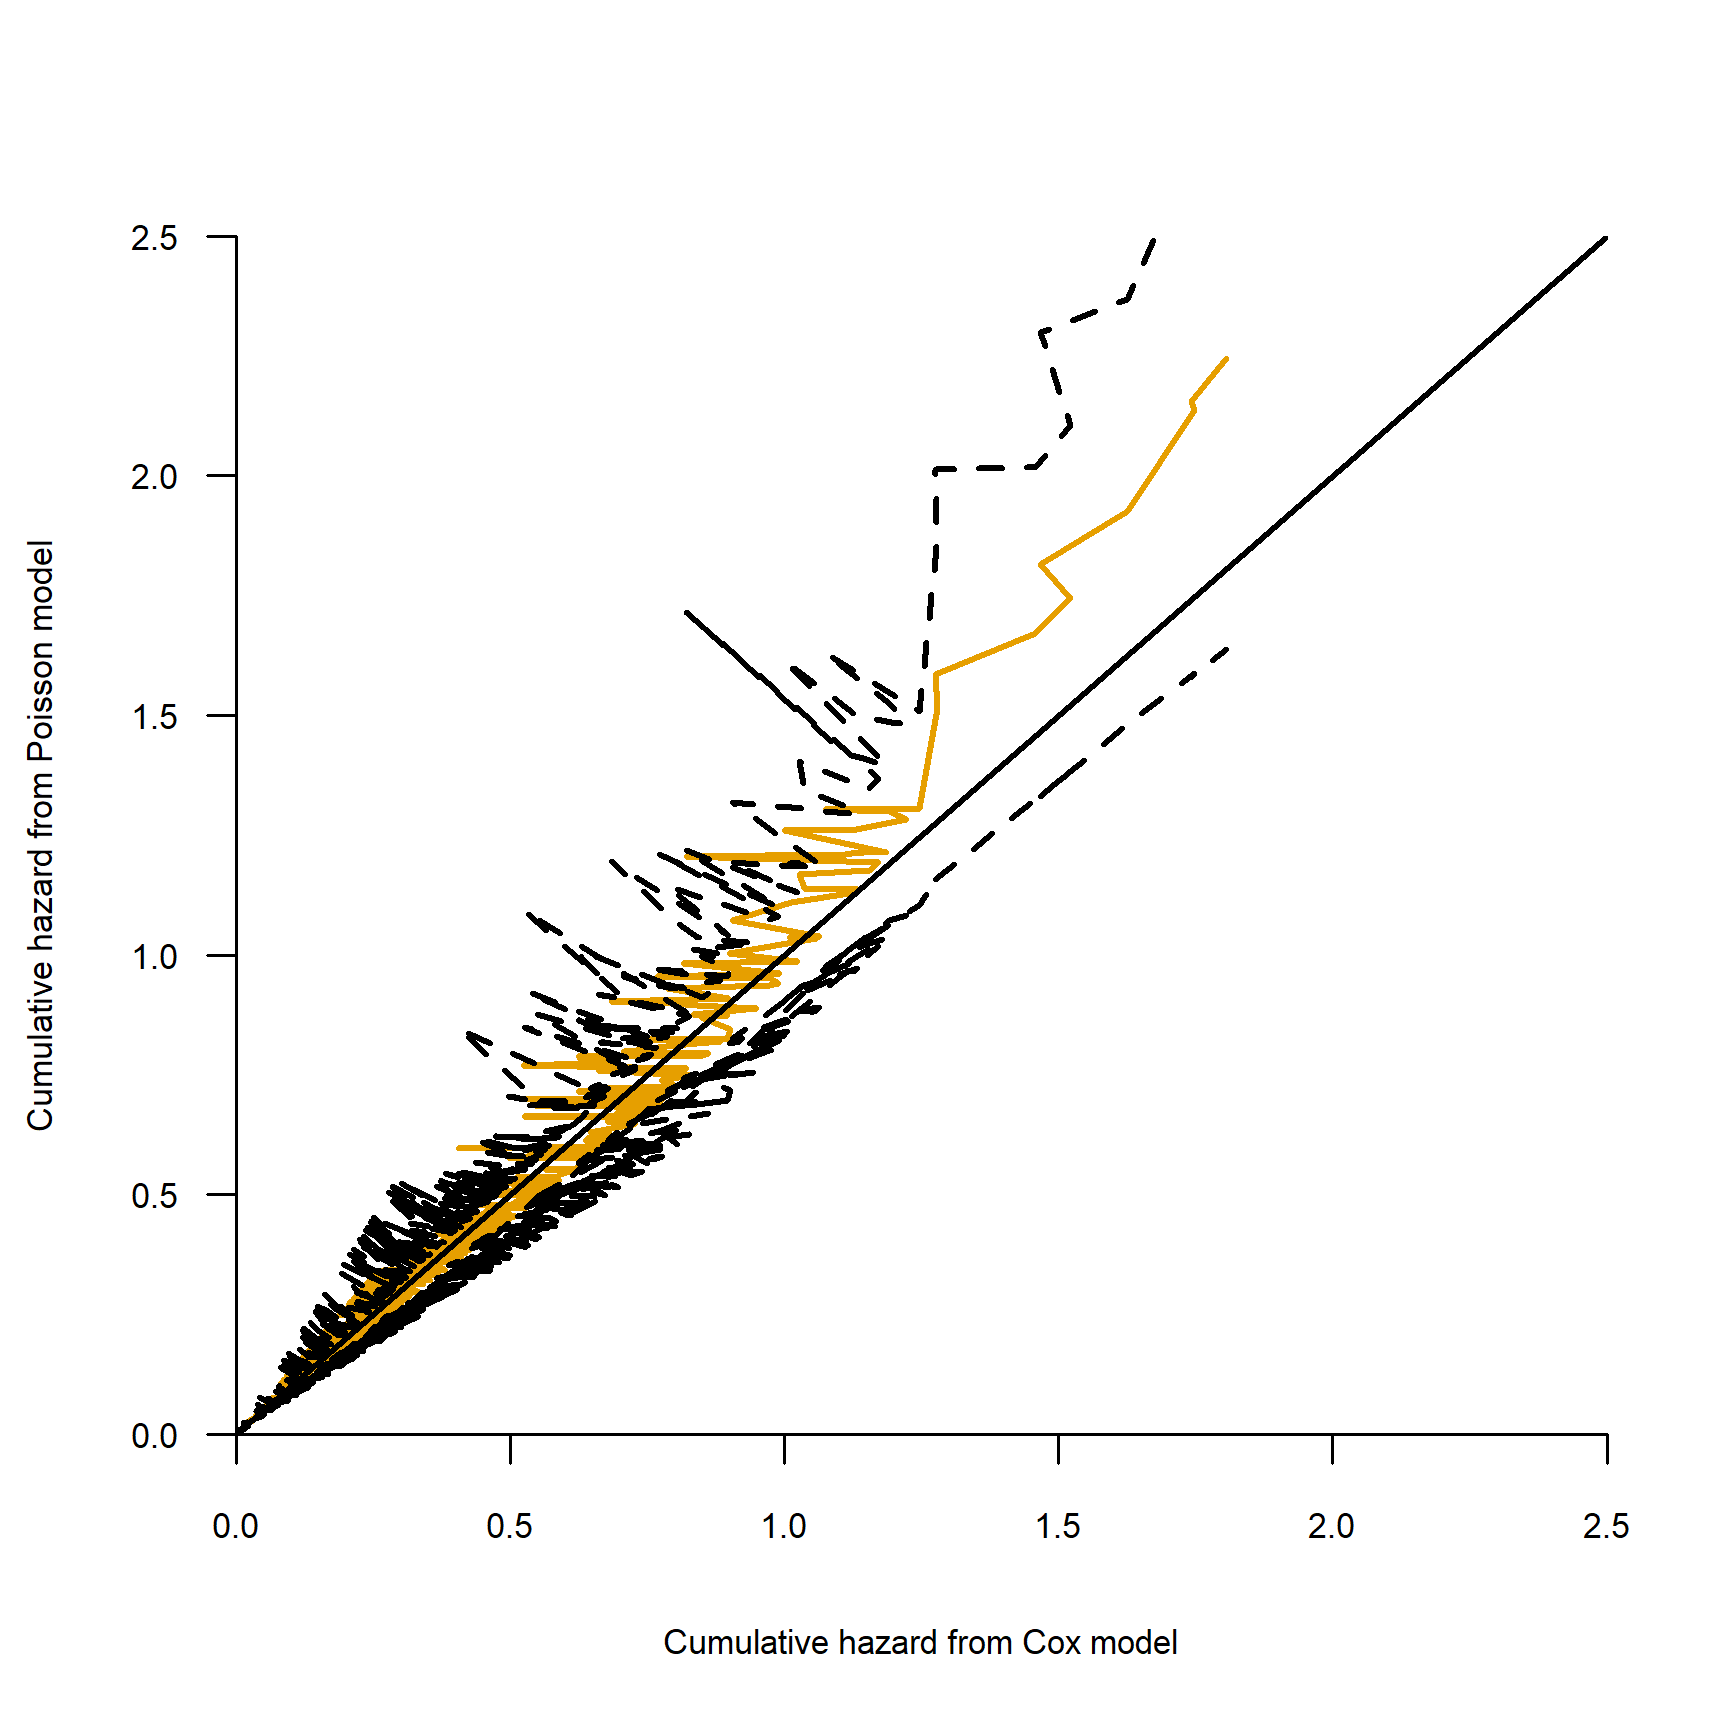
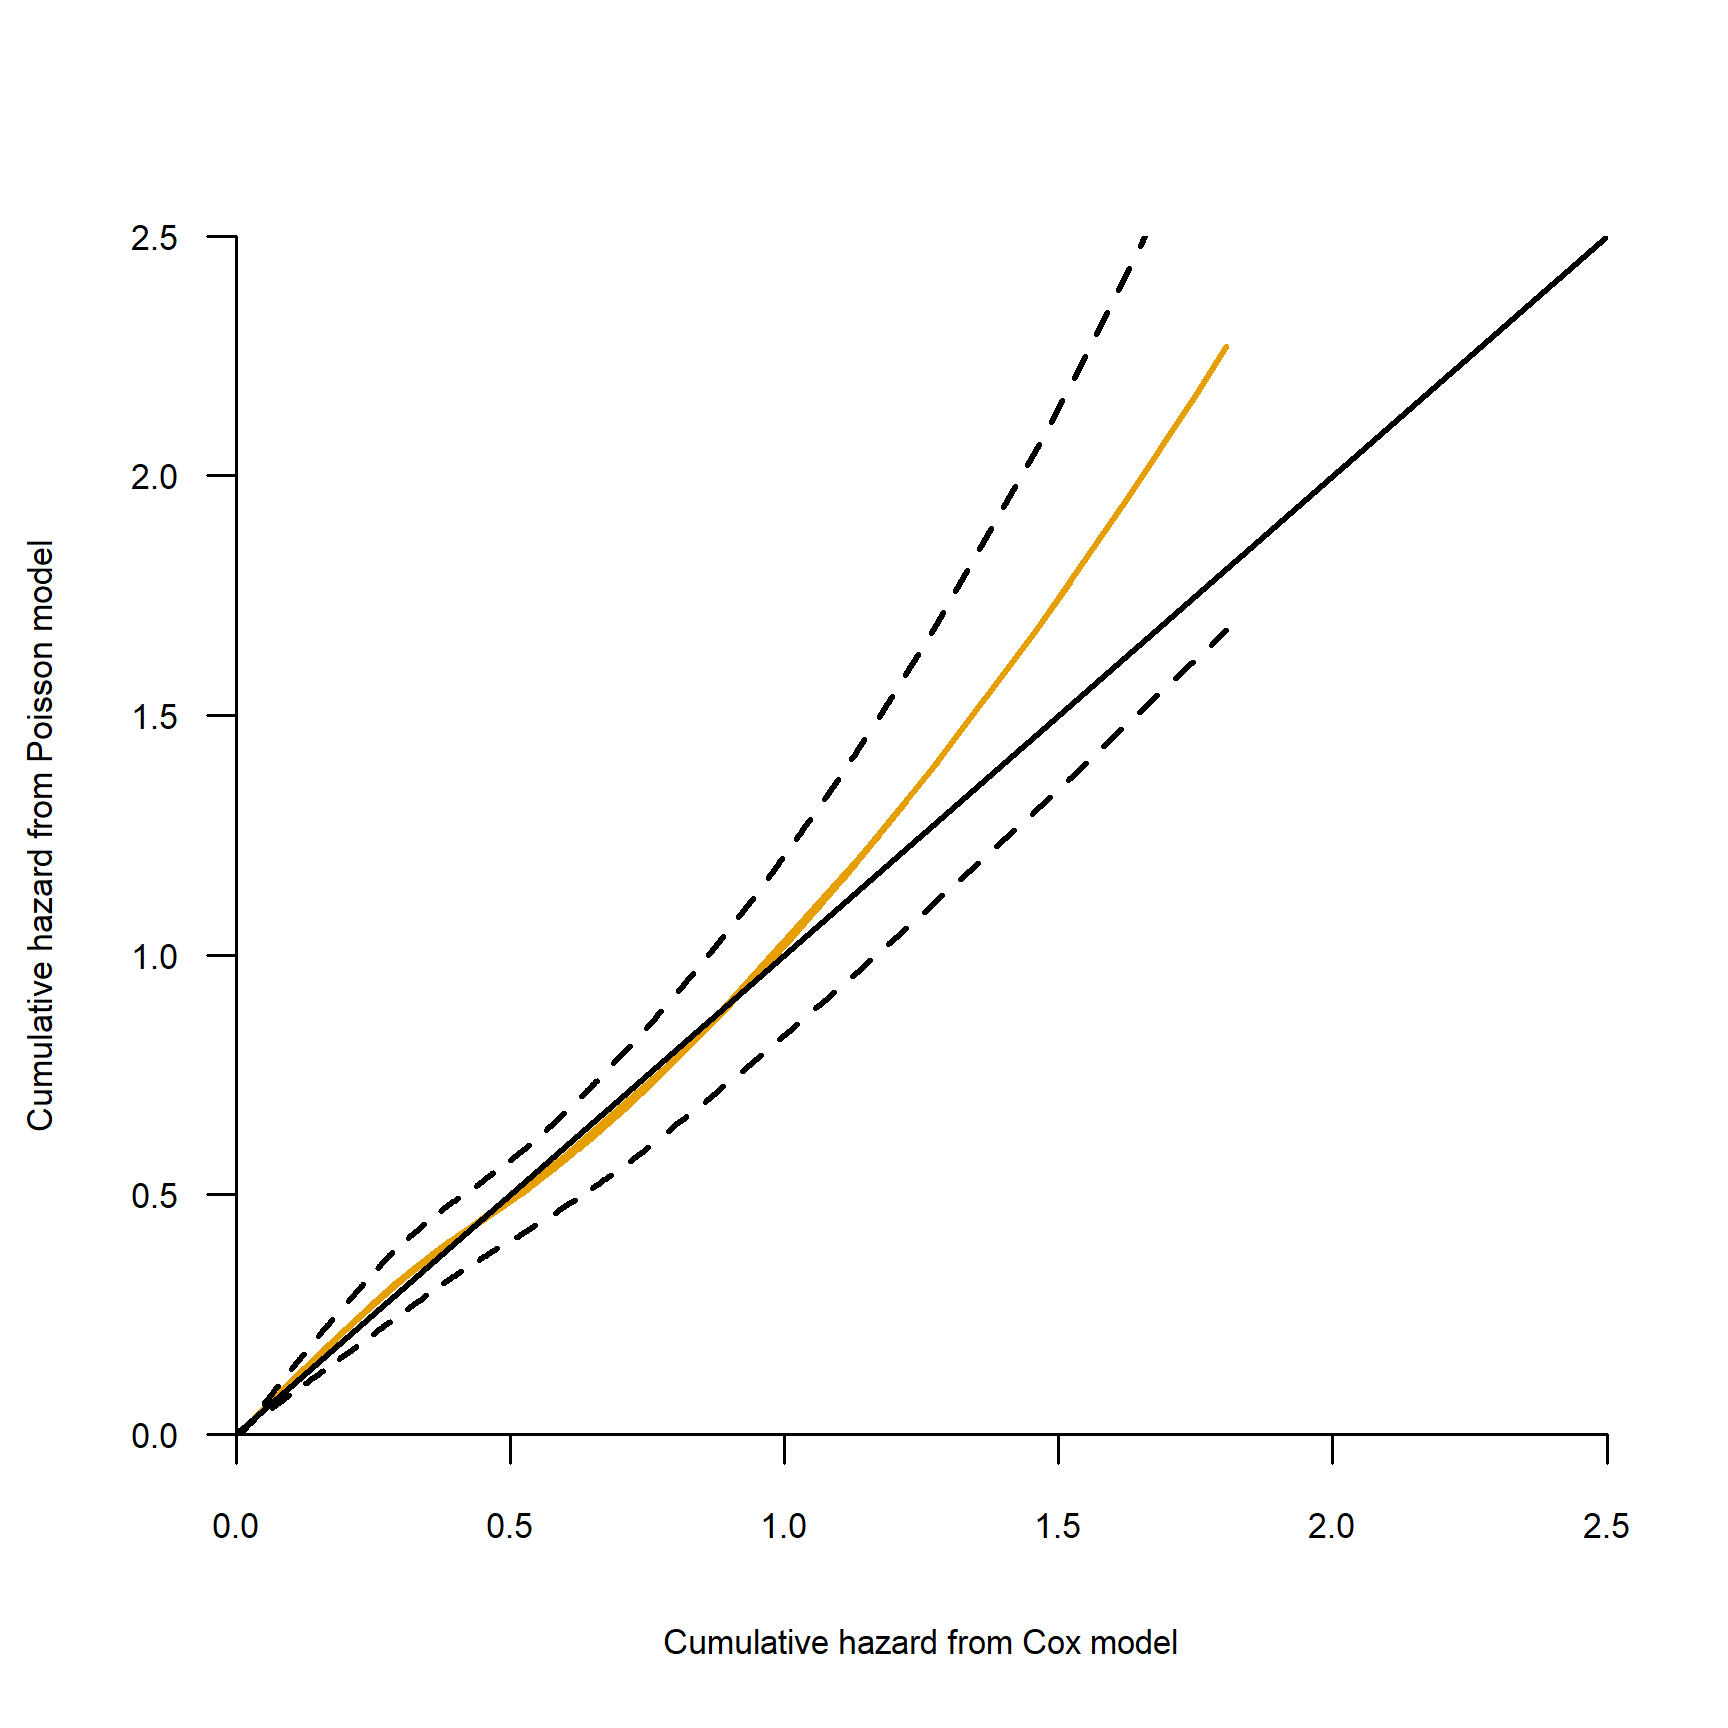
adjusting cumulative hazard plots using loess

diff --git a/03_predsurv_extended.md b/03_predsurv_extended.md
@@ -1439,7 +1439,7 @@ NA
 0.7
 </td>
 <td style="text-align:right;">
-0.69
+0.68
 </td>
 <td style="text-align:right;">
 NA
@@ -2706,13 +2706,13 @@ External data
 0.01
 </td>
 <td style="text-align:right;">
-0.05
+0.06
 </td>
 <td style="text-align:right;">
 0.07
 </td>
 <td style="text-align:right;">
-0.02
+0.03
 </td>
 <td style="text-align:right;">
 0.13
@@ -2726,10 +2726,10 @@ External data + PGR
 0.02
 </td>
 <td style="text-align:right;">
-0.01
+0.02
 </td>
 <td style="text-align:right;">
-0.06
+0.05
 </td>
 <td style="text-align:right;">
 0.02
@@ -2744,7 +2744,7 @@ External data + PGR
 0.05
 </td>
 <td style="text-align:right;">
-0.02
+0.03
 </td>
 <td style="text-align:right;">
 0.11
@@ -2976,10 +2976,30 @@ dt_cumhaz <- cbind.data.frame(
 dt_cumhaz <- dt_cumhaz[order(dt_cumhaz$pred), ]
 
 alpha <- .05
+dt_cumhaz$lower <- dt_cumhaz$pred - qnorm(1 - alpha / 2) * dt_cumhaz$se
+dt_cumhaz$upper <- dt_cumhaz$pred + qnorm(1 - alpha / 2) * dt_cumhaz$se
+loess_cumhaz <- loess(pred ~ obs, data = dt_cumhaz)
+loess_lower <- loess(lower ~ obs, data = dt_cumhaz)
+loess_upper <- loess(upper ~ obs, data = dt_cumhaz)
+
+dt_cumhaz_lower <- cbind.data.frame(
+  obs = dt_cumhaz$obs,
+  lower = loess_lower$fitted
+)
+
+dt_cumhaz_lower <- dt_cumhaz_lower[order(dt_cumhaz_lower$lower), ]
+
+dt_cumhaz_upper <- cbind.data.frame(
+  obs = dt_cumhaz$obs,
+  upper = loess_upper$fitted
+)
+
+dt_cumhaz_upper <- dt_cumhaz_upper[order(dt_cumhaz_upper$upper), ]
+
 par(xaxs = "i", yaxs = "i", las = 1)
 plot(
-  dt_cumhaz$obs, 
-  dt_cumhaz$pred,
+  dt_cumhaz$obs,
+  loess_cumhaz$fitted,
   type = "l", 
   lty = 1, 
   xlim = c(0, 2.5),
@@ -2992,12 +3012,12 @@ plot(
   bty = "n",
   col = 2
 )
-lines(dt_cumhaz$obs,
-      dt_cumhaz$pred - qnorm(1 - alpha / 2) * dt_cumhaz$se,
+lines(dt_cumhaz_lower$obs,
+      dt_cumhaz_lower$lower,
       lwd = 2,
       lty = 2)
-lines(dt_cumhaz$obs,
-      dt_cumhaz$pred + qnorm(1 - alpha / 2) * dt_cumhaz$se,
+lines(dt_cumhaz_upper$obs,
+      dt_cumhaz_upper$upper,
       lwd = 2,
       lty = 2)
 abline(a = 0, b = 1, lwd = 2)
@@ -3741,7 +3761,7 @@ sessioninfo::session_info()
     ##  collate  English_United States.1252
     ##  ctype    English_United States.1252
     ##  tz       Europe/Berlin
-    ##  date     2022-07-30
+    ##  date     2022-08-04
     ##  pandoc   2.17.1.1 @ C:/Program Files/RStudio/bin/quarto/bin/ (via rmarkdown)
     ## 
     ## - Packages -------------------------------------------------------------------
